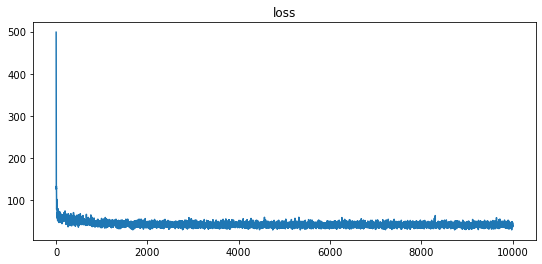
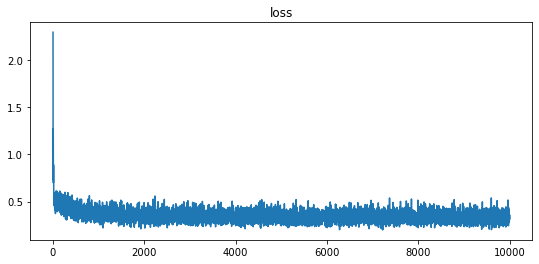
update

diff --git a/ncsn/src/train_toy_dsm.py b/ncsn/src/train_toy_dsm.py
@@ -26,7 +26,7 @@ PARAMS = {
     "learning_rate": 0.001,
     "num_L": 10,
     "sigma_low": 1.0,
-    "sigma_high": 20.0,
+    "sigma_high": 10.0,
     "epsilon": 0.1
 }
 
@@ -80,14 +80,14 @@ def dsm_loss(score, x_perturbed, x, sigmas):
     = \sigma^2 * Fisher information
     '''
     target = (x_perturbed - x) / (tf.square(sigmas))
-    loss = tf.square(sigmas) * 0.5 * tf.reduce_sum(tf.square(score + target), axis=[1,2,3], keepdims=True)
+    loss = tf.square(sigmas) * 0.5 * tf.reduce_sum(tf.square(score + target), axis=-1, keepdims=True)
     loss = tf.reduce_mean(loss)
     return loss
 
 @tf.function
 def train_one_step(model, optimizer, x_batch_perturbed, x_batch, idx_sigmas, sigmas):
     with tf.GradientTape() as tape:
-        # scores = model([x_batch_perturbed, idx_sigmas])
+        '''Technique 3. noise conditioning'''
         scores = model(x_batch_perturbed) / sigmas
         current_loss = dsm_loss(scores, x_batch_perturbed, x_batch, sigmas)
         gradients = tape.gradient(current_loss, model.trainable_variables)
@@ -117,7 +117,7 @@ for _ in progress_bar:
                                     dtype=tf.dtypes.int32)
     
     sigmas = tf.gather(sigma_levels, idx_sigmas)
-    sigmas = tf.reshape(sigmas, shape=(x_batch.shape[0], 1, 1, 1))
+    sigmas = tf.reshape(sigmas, shape=(x_batch.shape[0], 1))
     x_batch_perturbed = x_batch + tf.random.normal(shape=x_batch.shape) * sigmas # reparmetrization trick
 
     current_loss = train_one_step(model, optimizer, x_batch_perturbed, x_batch, idx_sigmas, sigmas)
@@ -198,7 +198,7 @@ plt.show()
 x_for_grads = np.linspace(-8, 8, num=20)
 grid = meshgrid(x_for_grads)
 true_grads = analytic_log_gmm_prob_grad(grid, 1) # compute analytic gradients
-estimated_grads = model(grid) # compute estimated gradients (scores)
+estimated_grads = model(grid) / PARAMS['sigma_low'] # compute estimated gradients (scores) given the smallest noise
 
 U1, V1 = true_grads[:, :, 1], true_grads[:, :, 0]
 U2, V2 = estimated_grads[:, :, 1], estimated_grads[:, :, 0]
